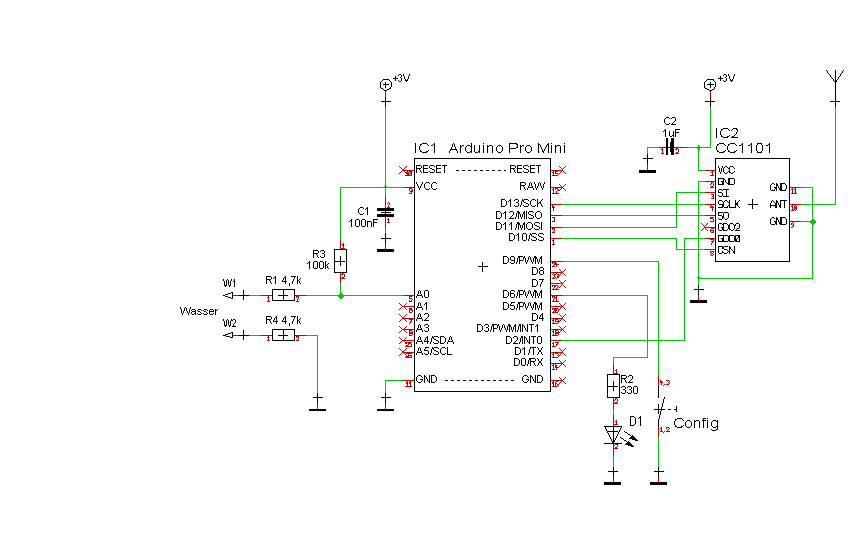
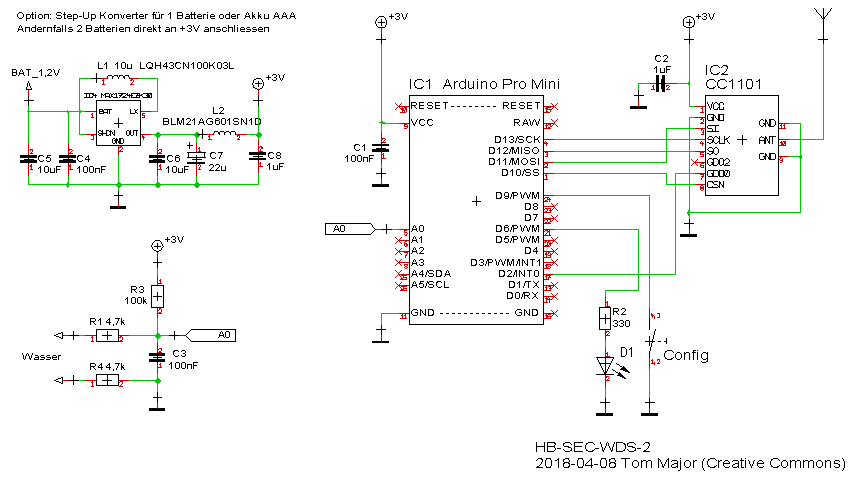
Add MAX1724 step-up option to schematic, add further images

diff --git a/HB-SEC-WDS-2/README.md b/HB-SEC-WDS-2/README.md
@@ -11,3 +11,21 @@
 
 # Schaltung
 ![pic](Images/Schaltung.png)
+
+# Aufbau Prototyp
+
+![pic](Images/Prototyp.jpg)
+
+# Option: Step-Up Konverter zum Betrieb mit 1 Batterie oder einem Akku AAA
+
+MAX1724 Testaufbau
+![pic](Images/MAX1724.jpg)
+
+Ausgangsspannung Restwelligkeit mit 10uF Keramikkondensator an +3V
+![pic](Images/step-up_output_AC_with_10u.png)
+
+Ausgangsspannung Restwelligkeit mit 10uF Keramikkondensator + 20uF Tantalelko an +3V
+![pic](Images/step-up_output_AC_with_10u_20u.png)
+
+Ausgangsspannung DC
+![pic](Images/step-up_output_DC.png)
